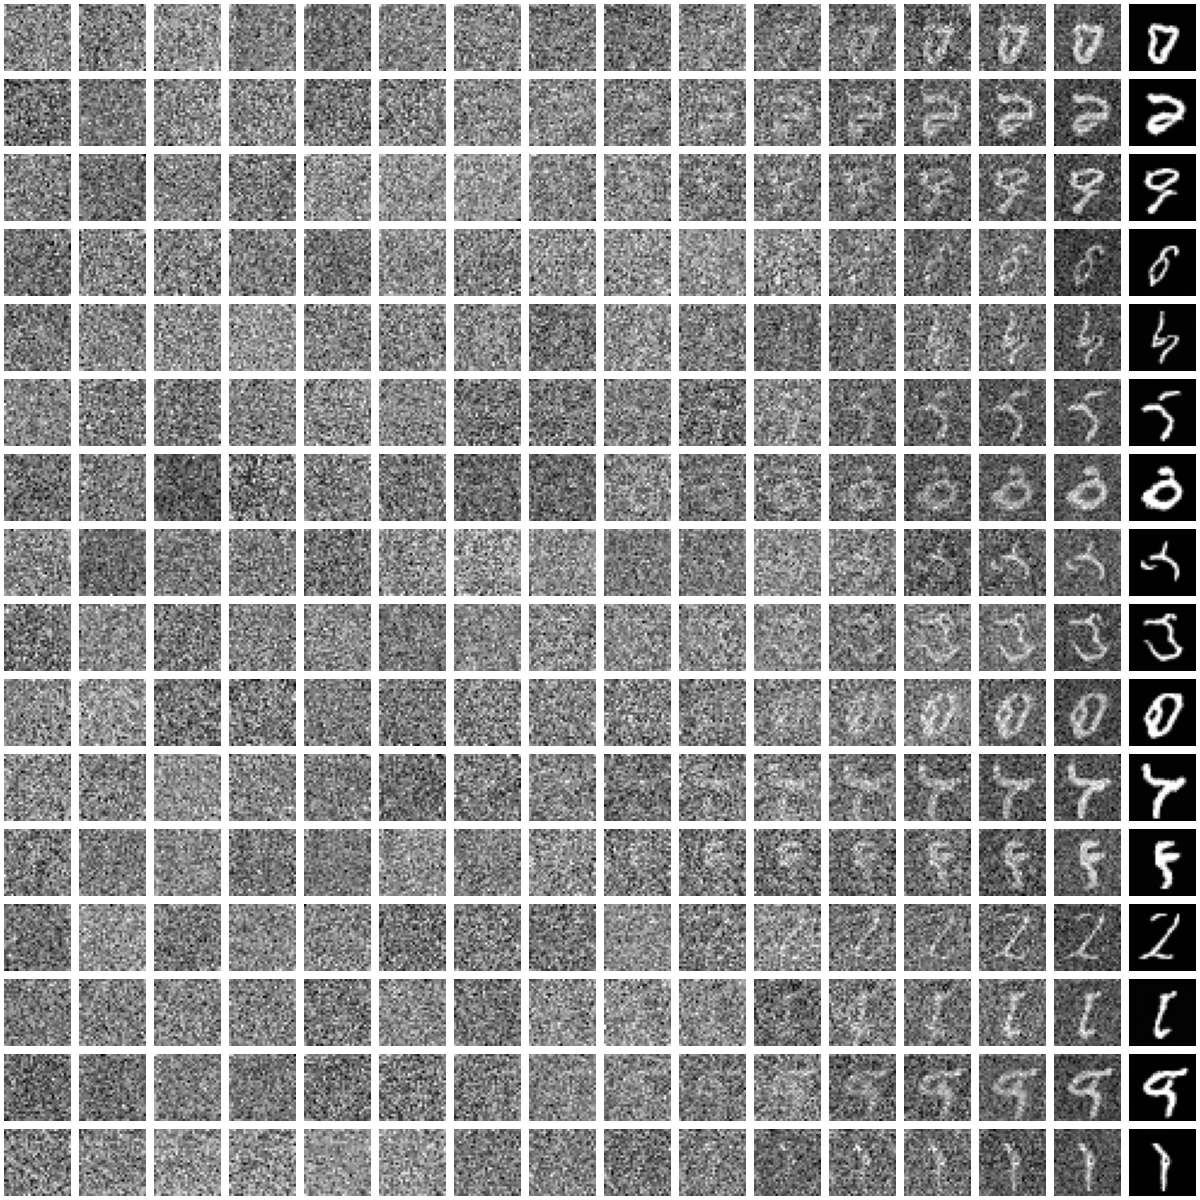
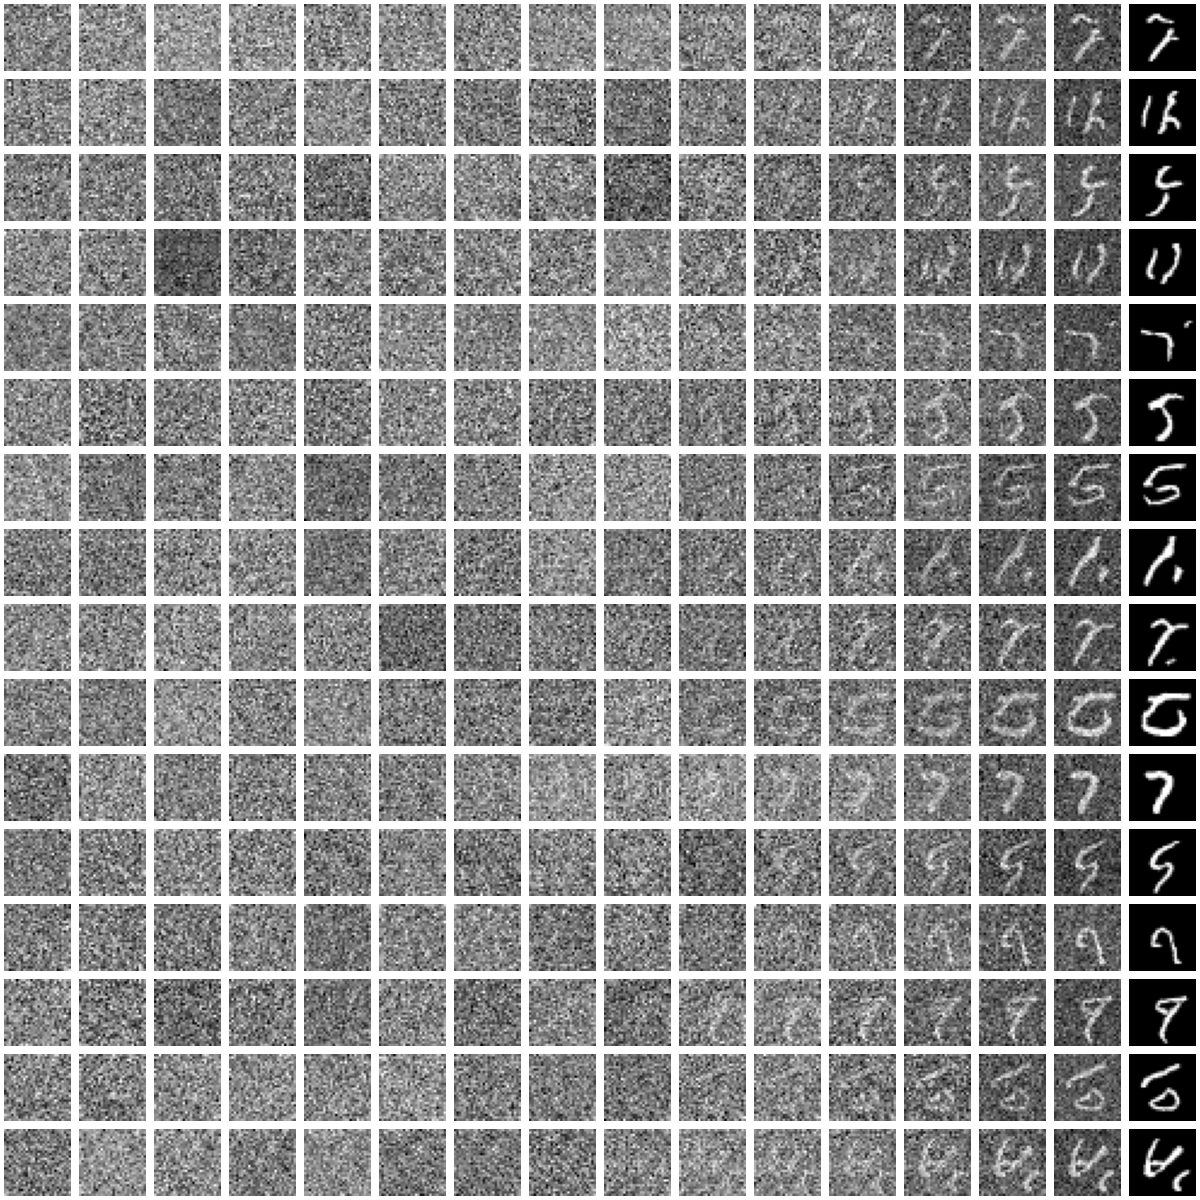
update

diff --git a/model/diffusion.py b/model/diffusion.py
@@ -1,112 +1,157 @@
 import math
-
-import torch
 import torch.nn.functional as F
-from tqdm.auto import tqdm
+import torch
+
+# beta schedule
+from tqdm import tqdm
 
 
-class DiffusionModel():
-    def __init__(self, timesteps=200, beta_schedule="linear"):
+def linear_beta_schedule(timesteps):
+    scale = 1000 / timesteps
+    beta_start = scale * 0.0001
+    beta_end = scale * 0.02
+    return torch.linspace(beta_start, beta_end, timesteps, dtype=torch.float64)
+
+
+def cosine_beta_schedule(timesteps, s=0.008):
+    """
+    cosine schedule
+    as proposed in https://arxiv.org/abs/2102.09672
+    """
+    steps = timesteps + 1
+    x = torch.linspace(0, timesteps, steps, dtype=torch.float64)
+    alphas_cumprod = torch.cos(((x / timesteps) + s) / (1 + s) * math.pi * 0.5) ** 2
+    alphas_cumprod = alphas_cumprod / alphas_cumprod[0]
+    betas = 1 - (alphas_cumprod[1:] / alphas_cumprod[:-1])
+    return torch.clip(betas, 0, 0.999)
+
+
+class DiffusionModel:
+    def __init__(
+            self,
+            timesteps=1000,
+            beta_schedule='linear'
+    ):
         self.timesteps = timesteps
 
-        if beta_schedule == "linear":
-            self.betas = self.linear_beta_schedule(timesteps=timesteps)
-        elif beta_schedule == "cosine":
-            self.betas = self.cosine_beta_schedule(timesteps=timesteps)
-        elif beta_schedule == "quadratic":
-            self.betas = self.quadratic_beta_schedule(timesteps=timesteps)
-        elif beta_schedule == "sigmoid":
-            self.betas = self.sigmoid_beta_schedule(timesteps=timesteps)
+        if beta_schedule == 'linear':
+            betas = linear_beta_schedule(timesteps)
+        elif beta_schedule == 'cosine':
+            betas = cosine_beta_schedule(timesteps)
         else:
-            print("beta_schedule must in ['linear', 'cosine', 'quadratic', 'sigmoid']")
+            raise ValueError(f'unknown beta schedule {beta_schedule}')
+        self.betas = betas
 
         self.alphas = 1. - self.betas
-        self.sqrt_recip_alphas = torch.sqrt(1.0 / self.alphas)
-        self.alphas_cumprod = torch.cumprod(self.alphas, dim=0)  # 累乘
-        self.alphas_cumprod_prev = F.pad(self.alphas_cumprod[:-1], (1, 0), value=1.0)
+        self.alphas_cumprod = torch.cumprod(self.alphas, dim=0)
+        self.alphas_cumprod_prev = F.pad(self.alphas_cumprod[:-1], (1, 0), value=1.)
 
+        # calculations for diffusion q(x_t | x_{t-1}) and others
         self.sqrt_alphas_cumprod = torch.sqrt(self.alphas_cumprod)
-        self.sqrt_one_minus_alphas_cumprod = torch.sqrt(1. - self.alphas_cumprod)
+        self.sqrt_one_minus_alphas_cumprod = torch.sqrt(1.0 - self.alphas_cumprod)
+        self.log_one_minus_alphas_cumprod = torch.log(1.0 - self.alphas_cumprod)
+        self.sqrt_recip_alphas_cumprod = torch.sqrt(1.0 / self.alphas_cumprod)
+        self.sqrt_recipm1_alphas_cumprod = torch.sqrt(1.0 / self.alphas_cumprod - 1)
 
-        self.posterior_variance = self.betas * (1. - self.alphas_cumprod_prev) / (1. - self.alphas_cumprod)
+        # calculations for posterior q(x_{t-1} | x_t, x_0)
+        self.posterior_variance = (
+                self.betas * (1.0 - self.alphas_cumprod_prev) / (1.0 - self.alphas_cumprod)
+        )
+        # below: log calculation clipped because the posterior variance is 0 at the beginning
+        # of the diffusion chain
+        self.posterior_log_variance_clipped = torch.log(self.posterior_variance.clamp(min=1e-20))
 
-    @staticmethod
-    def cosine_beta_schedule(timesteps, s=0.008):
-        steps = timesteps + 1
-        x = torch.linspace(0, timesteps, steps, dtype=torch.float64)
-        alphas_cumprod = torch.cos(((x / timesteps) + s) / (1 + s) * math.pi * 0.5) ** 2
-        alphas_cumprod = alphas_cumprod / alphas_cumprod[0]
-        betas = 1 - (alphas_cumprod[1:] / alphas_cumprod[:-1])
-        return torch.clip(betas, 0, 0.999)
+        self.posterior_mean_coef1 = (
+                self.betas * torch.sqrt(self.alphas_cumprod_prev) / (1.0 - self.alphas_cumprod)
+        )
+        self.posterior_mean_coef2 = (
+                (1.0 - self.alphas_cumprod_prev)
+                * torch.sqrt(self.alphas)
+                / (1.0 - self.alphas_cumprod)
+        )
 
-    @staticmethod
-    def linear_beta_schedule(timesteps):
-        scale = 1000 / timesteps
-        beta_start = scale * 0.0001
-        beta_end = scale * 0.02
-        return torch.linspace(beta_start, beta_end, timesteps)
+        # get the param of given timestep t
 
-    @staticmethod
-    def quadratic_beta_schedule(timesteps):
-        beta_start = 0.0001
-        beta_end = 0.02
-        return torch.linspace(beta_start ** 0.5, beta_end ** 0.5, timesteps) ** 2
-
-    @staticmethod
-    def sigmoid_beta_schedule(timesteps):
-        beta_start = 0.0001
-        beta_end = 0.02
-        betas = torch.linspace(-6, 6, timesteps)
-        return torch.sigmoid(betas) * (beta_end - beta_start) + beta_start
-
-    @staticmethod
-    def extract(data, t, x_shape):
+    def _extract(self, a, t, x_shape):
         batch_size = t.shape[0]
-        out = torch.gather(data, -1, t.cpu())
-        return out.reshape(batch_size, *((1,) * (len(x_shape) - 1))).to(t.device)
+        out = a.to(t.device).gather(0, t).float()
+        out = out.reshape(batch_size, *((1,) * (len(x_shape) - 1)))
+        return out
+
+        # forward diffusion (using the nice property): q(x_t | x_0)
 
     def q_sample(self, x_start, t, noise=None):
         if noise is None:
             noise = torch.randn_like(x_start)
 
-        sqrt_alphas_cumprod_t = self.extract(self.sqrt_alphas_cumprod, t, x_start.shape)
-        sqrt_one_minus_alphas_cumprod_t = self.extract(
-            self.sqrt_one_minus_alphas_cumprod, t, x_start.shape
-        )
+        sqrt_alphas_cumprod_t = self._extract(self.sqrt_alphas_cumprod, t, x_start.shape)
+        sqrt_one_minus_alphas_cumprod_t = self._extract(self.sqrt_one_minus_alphas_cumprod, t, x_start.shape)
 
         return sqrt_alphas_cumprod_t * x_start + sqrt_one_minus_alphas_cumprod_t * noise
 
-    def p_sample(self, model, x, t, t_index):
-        betas_t = self.extract(self.betas, t, x.shape)
+    # Get the mean and variance of q(x_t | x_0).
+    def q_mean_variance(self, x_start, t):
+        mean = self._extract(self.sqrt_alphas_cumprod, t, x_start.shape) * x_start
+        variance = self._extract(1.0 - self.alphas_cumprod, t, x_start.shape)
+        log_variance = self._extract(self.log_one_minus_alphas_cumprod, t, x_start.shape)
+        return mean, variance, log_variance
 
-        sqrt_one_minus_alphas_cumprod_t = self.extract(
-            self.sqrt_one_minus_alphas_cumprod, t, x.shape
+    # Compute the mean and variance of the diffusion posterior: q(x_{t-1} | x_t, x_0)
+    def q_posterior_mean_variance(self, x_start, x_t, t):
+        posterior_mean = (
+                self._extract(self.posterior_mean_coef1, t, x_t.shape) * x_start
+                + self._extract(self.posterior_mean_coef2, t, x_t.shape) * x_t
         )
-        sqrt_recip_alphas_t = self.extract(self.sqrt_recip_alphas, t, x.shape)
+        posterior_variance = self._extract(self.posterior_variance, t, x_t.shape)
+        posterior_log_variance_clipped = self._extract(self.posterior_log_variance_clipped, t, x_t.shape)
+        return posterior_mean, posterior_variance, posterior_log_variance_clipped
 
-        with torch.no_grad():
-            model_mean = sqrt_recip_alphas_t * (
-                    x - betas_t * model(x, t) / sqrt_one_minus_alphas_cumprod_t
-            )
+    # compute x_0 from x_t and pred noise: the reverse of `q_sample`
+    def predict_start_from_noise(self, x_t, t, noise):
+        return (
+                self._extract(self.sqrt_recip_alphas_cumprod, t, x_t.shape) * x_t -
+                self._extract(self.sqrt_recipm1_alphas_cumprod, t, x_t.shape) * noise
+        )
 
-        if t_index == 0:
-            return model_mean
-        else:
-            posterior_variance_t = self.extract(self.posterior_variance, t, x.shape)
-            noise = torch.randn_like(x)
-            return model_mean + torch.sqrt(posterior_variance_t) * noise
+    # compute predicted mean and variance of p(x_{t-1} | x_t)
+    def p_mean_variance(self, model, x_t, t, clip_denoised=True):
+        # predict noise using model
+        pred_noise = model(x_t, t)
+        # get the predicted x_0: different from the algorithm2 in the paper
+        x_recon = self.predict_start_from_noise(x_t, t, pred_noise)
+        if clip_denoised:
+            x_recon = torch.clamp(x_recon, min=-1., max=1.)
+        model_mean, posterior_variance, posterior_log_variance = \
+            self.q_posterior_mean_variance(x_recon, x_t, t)
+        return model_mean, posterior_variance, posterior_log_variance
 
+    # denoise_step: sample x_{t-1} from x_t and pred_noise
+    @torch.no_grad()
+    def p_sample(self, model, x_t, t, clip_denoised=True):
+        # predict mean and variance
+        model_mean, _, model_log_variance = self.p_mean_variance(model, x_t, t,
+                                                                 clip_denoised=clip_denoised)
+        noise = torch.randn_like(x_t)
+        # no noise when t == 0
+        nonzero_mask = ((t != 0).float().view(-1, *([1] * (len(x_t.shape) - 1))))
+        # compute x_{t-1}
+        pred_img = model_mean + nonzero_mask * (0.5 * model_log_variance).exp() * noise
+        return pred_img
+
+    # denoise: reverse diffusion
+    @torch.no_grad()
     def p_sample_loop(self, model, shape):
+        batch_size = shape[0]
         device = next(model.parameters()).device
-
-        b = shape[0]
+        # start from pure noise (for each example in the batch)
         img = torch.randn(shape, device=device)
         imgs = []
-
         for i in tqdm(reversed(range(0, self.timesteps)), desc='sampling loop time step', total=self.timesteps):
-            img = self.p_sample(model, img, torch.full((b,), i).to(device), i)
+            img = self.p_sample(model, img, torch.full((batch_size,), i).to(device))
             imgs.append(img.cpu().numpy())
         return imgs
 
-    def sample(self, model, image_size, batch_size=16, channels=3):
+    # sample new images
+    @torch.no_grad()
+    def sample(self, model, image_size, batch_size=8, channels=3):
         return self.p_sample_loop(model, shape=(batch_size, channels, image_size, image_size))

diff --git a/exp/exp.py b/exp/exp.py
@@ -5,7 +5,6 @@ import torch
 import numpy as np
 from matplotlib import pyplot as plt
 from torch import optim, nn
-from torch.optim.lr_scheduler import LambdaLR
 from torch.utils.data import DataLoader
 from torchvision.datasets import MNIST
 from torchvision.transforms import Compose, ToTensor, Normalize
@@ -13,7 +12,6 @@ from tqdm import tqdm
 
 from model.diffusion import DiffusionModel
 from model.unet import UNetModel
-from utils.earlystop import EarlyStopping
 
 
 class Exp:
@@ -29,19 +27,13 @@ class Exp:
             os.makedirs(self.result_dir)
 
     def _get_data(self):
-        traindataset = MNIST(root="./dataset", train=True, download=False,
-                             transform=Compose([
-                                 ToTensor(),
-                                 Normalize(mean=[0.5], std=[0.5])
-                             ]))
-        testdataset = MNIST(root="./dataset", train=False, download=False,
-                            transform=Compose([
-                                ToTensor(),
-                                Normalize(mean=[0.5], std=[0.5])
-                            ]))
+        dataset = MNIST(root="./dataset", train=True, download=False,
+                        transform=Compose([
+                            ToTensor(),
+                            Normalize(mean=[0.5], std=[0.5])
+                        ]))
 
-        self.trainloader = DataLoader(traindataset, batch_size=self.batch_size, shuffle=True)
-        self.testloader = DataLoader(testdataset, batch_size=self.batch_size, shuffle=False)
+        self.dataloader = DataLoader(dataset, batch_size=self.batch_size, shuffle=True)
 
     def _get_model(self):
         self.device = torch.device("cuda" if torch.cuda.is_available() else "cpu")
@@ -51,8 +43,6 @@ class Exp:
                                channel_mult=(1, 2, 2),
                                attention_resolutions=[]).to(self.device)
         self.optimizer = optim.Adam(self.model.parameters(), lr=self.lr, weight_decay=1e-4)
-        self.scheduler = LambdaLR(self.optimizer, lr_lambda=lambda epoch: 0.75 ** ((epoch - 1) // 2))
-        self.early_stopping = EarlyStopping(patience=self.patience, path=self.model_dir + 'model.pkl')
         self.criterion = nn.MSELoss()
         print(self.device)
 
@@ -67,7 +57,6 @@ class Exp:
         predicted_noise = self.model(x_noisy, t)
 
         loss = self.criterion(noise, predicted_noise)
-
         return loss
 
     def train(self):
@@ -76,29 +65,16 @@ class Exp:
 
             self.model.train()
             train_loss = []
-            for (batch_x, _) in tqdm(self.trainloader):
+            for (batch_x, _) in tqdm(self.dataloader):
                 self.optimizer.zero_grad()
                 loss = self._process_one_batch(batch_x)
                 train_loss.append(loss.item())
                 loss.backward()
                 self.optimizer.step()
 
-            with torch.no_grad():
-                test_loss = []
-                for (batch_x, _) in tqdm(self.testloader):
-                    loss = self._process_one_batch(batch_x)
-                    test_loss.append(loss.item())
-
-            train_loss, test_loss = np.average(train_loss), np.average(test_loss)
+            train_loss = np.average(train_loss)
             end = time()
-            print("Epoch: {0} || Train Loss: {1:.6f} | Test Loss: {2:.6f} || Cost: {3:.6f}".format(e + 1, train_loss,
-                                                                                                   test_loss,
-                                                                                                   end - start))
-
-            self.early_stopping(test_loss, self.model)
-            if self.early_stopping.early_stop:
-                break
-            self.scheduler.step()
+            print("Epoch: {0} || Train Loss: {1:.6f} || Cost: {2:.6f}".format(e + 1, train_loss, end - start))
 
         self.model.load_state_dict(torch.load(self.model_dir + 'model.pkl'))
 

diff --git a/main.py b/main.py
@@ -11,10 +11,9 @@ if __name__ == '__main__':
 
     parser = argparse.ArgumentParser()
 
-    parser.add_argument('--lr', type=float, default=0.001)
-    parser.add_argument('--epochs', type=int, default=16)
+    parser.add_argument('--lr', type=float, default=0.0005)
+    parser.add_argument('--epochs', type=int, default=10)
     parser.add_argument('--batch_size', type=int, default=64)
-    parser.add_argument('--patience', type=int, default=5)
 
     parser.add_argument('--image_size', type=int, default=28)
     parser.add_argument('--channels', type=int, default=1)
